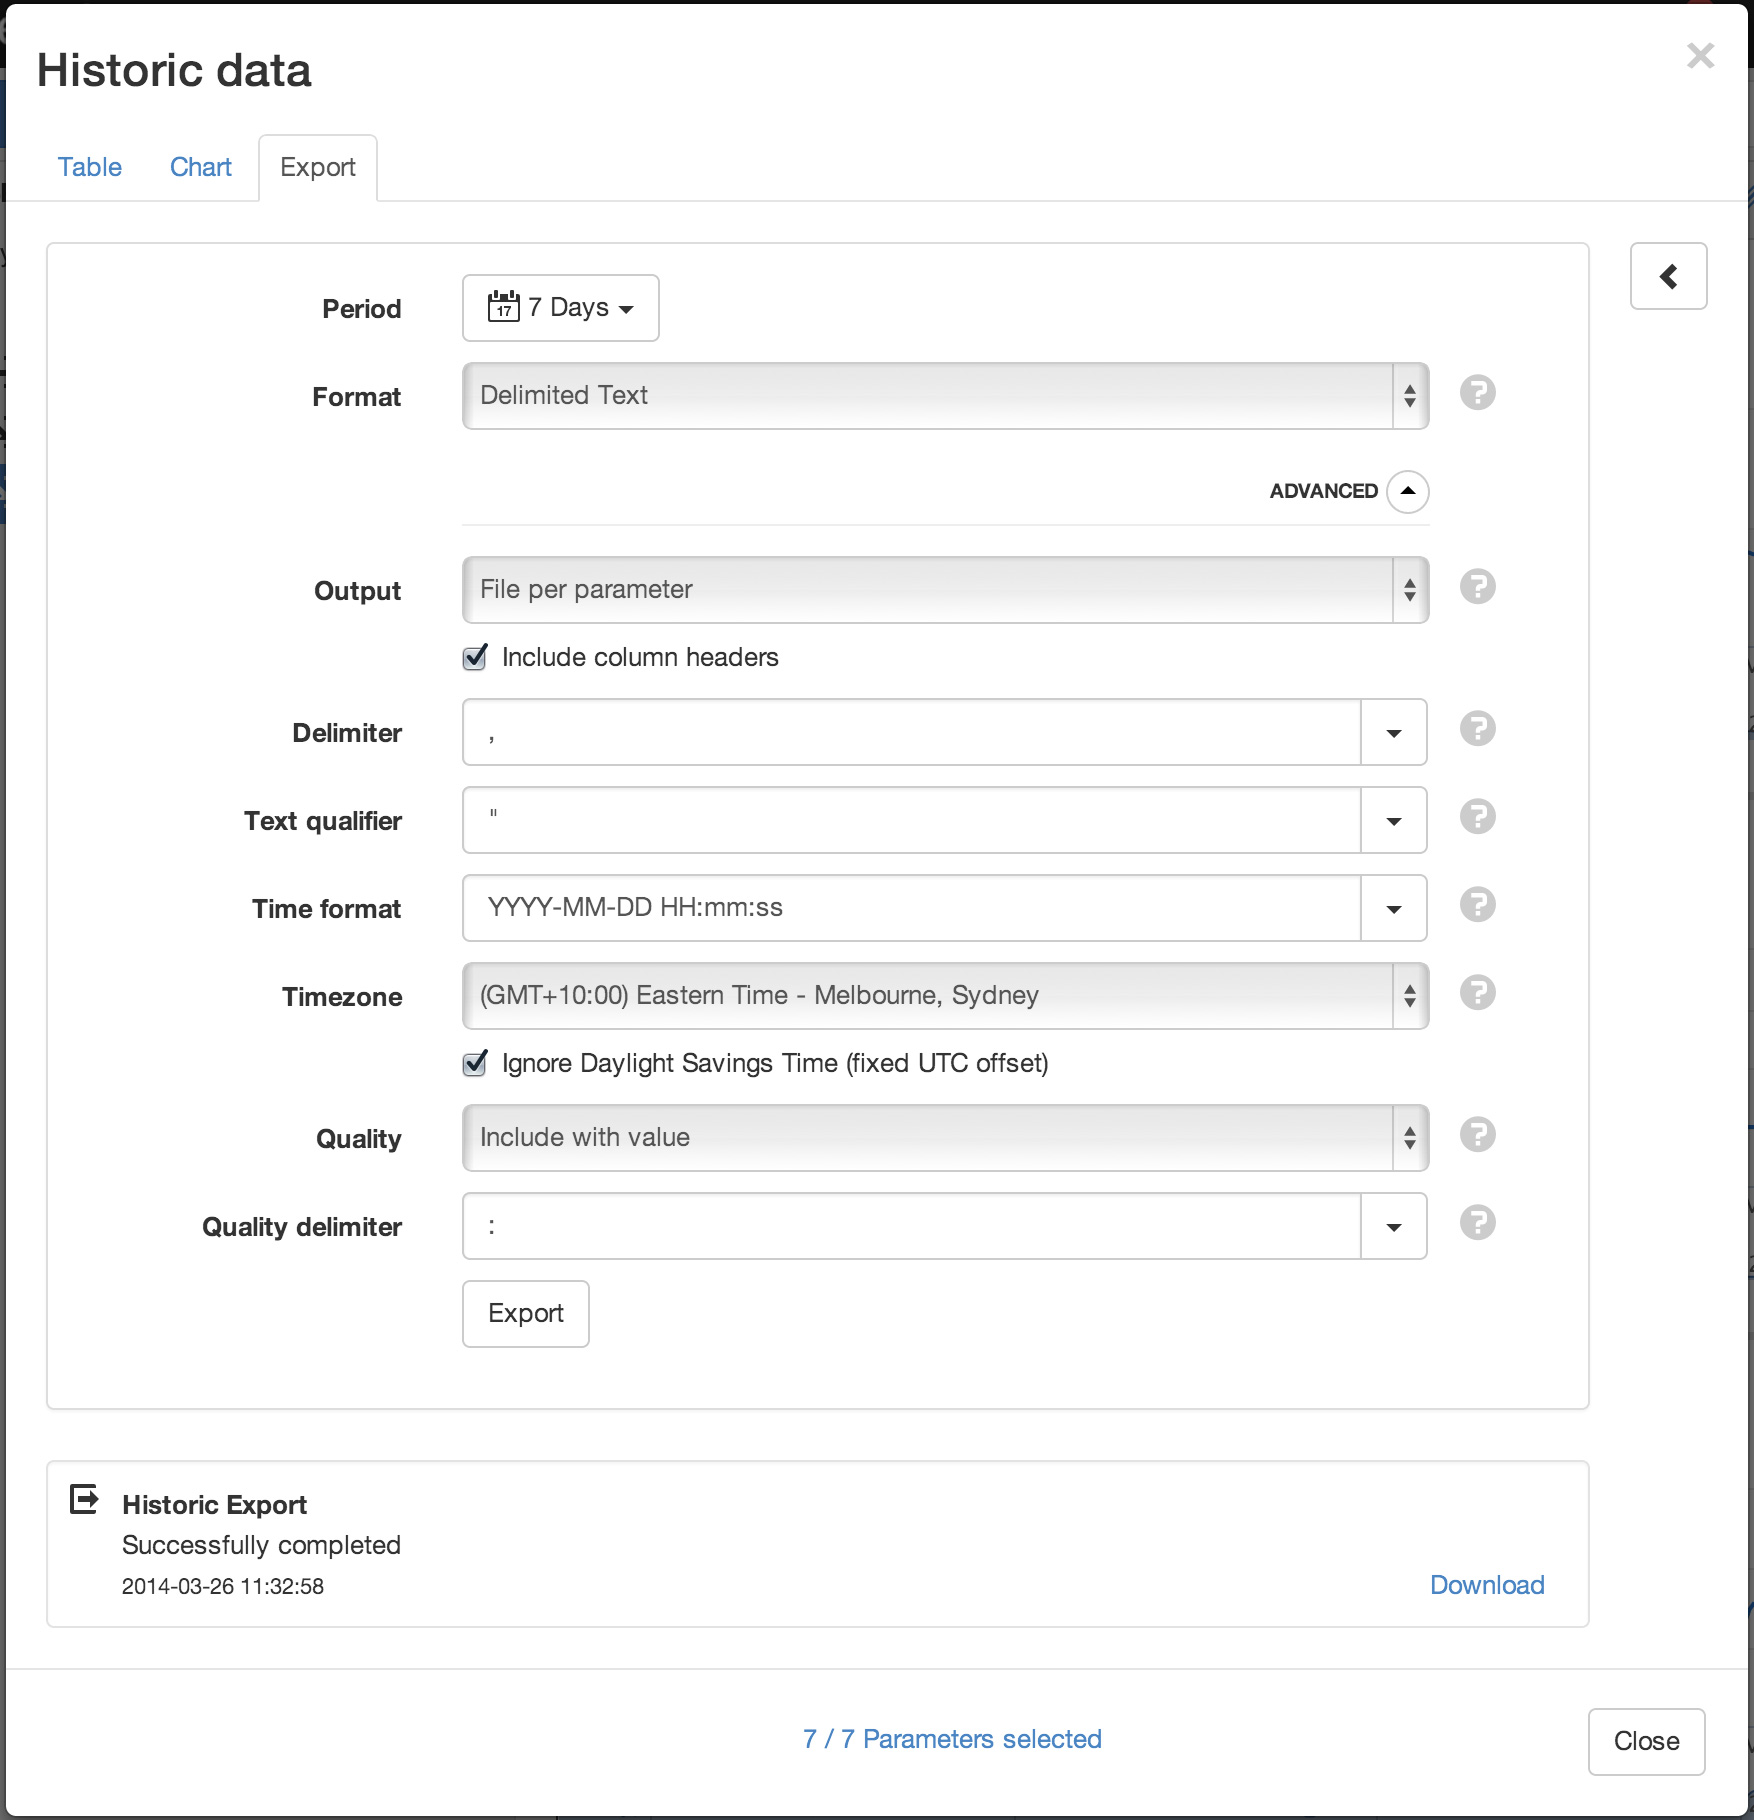
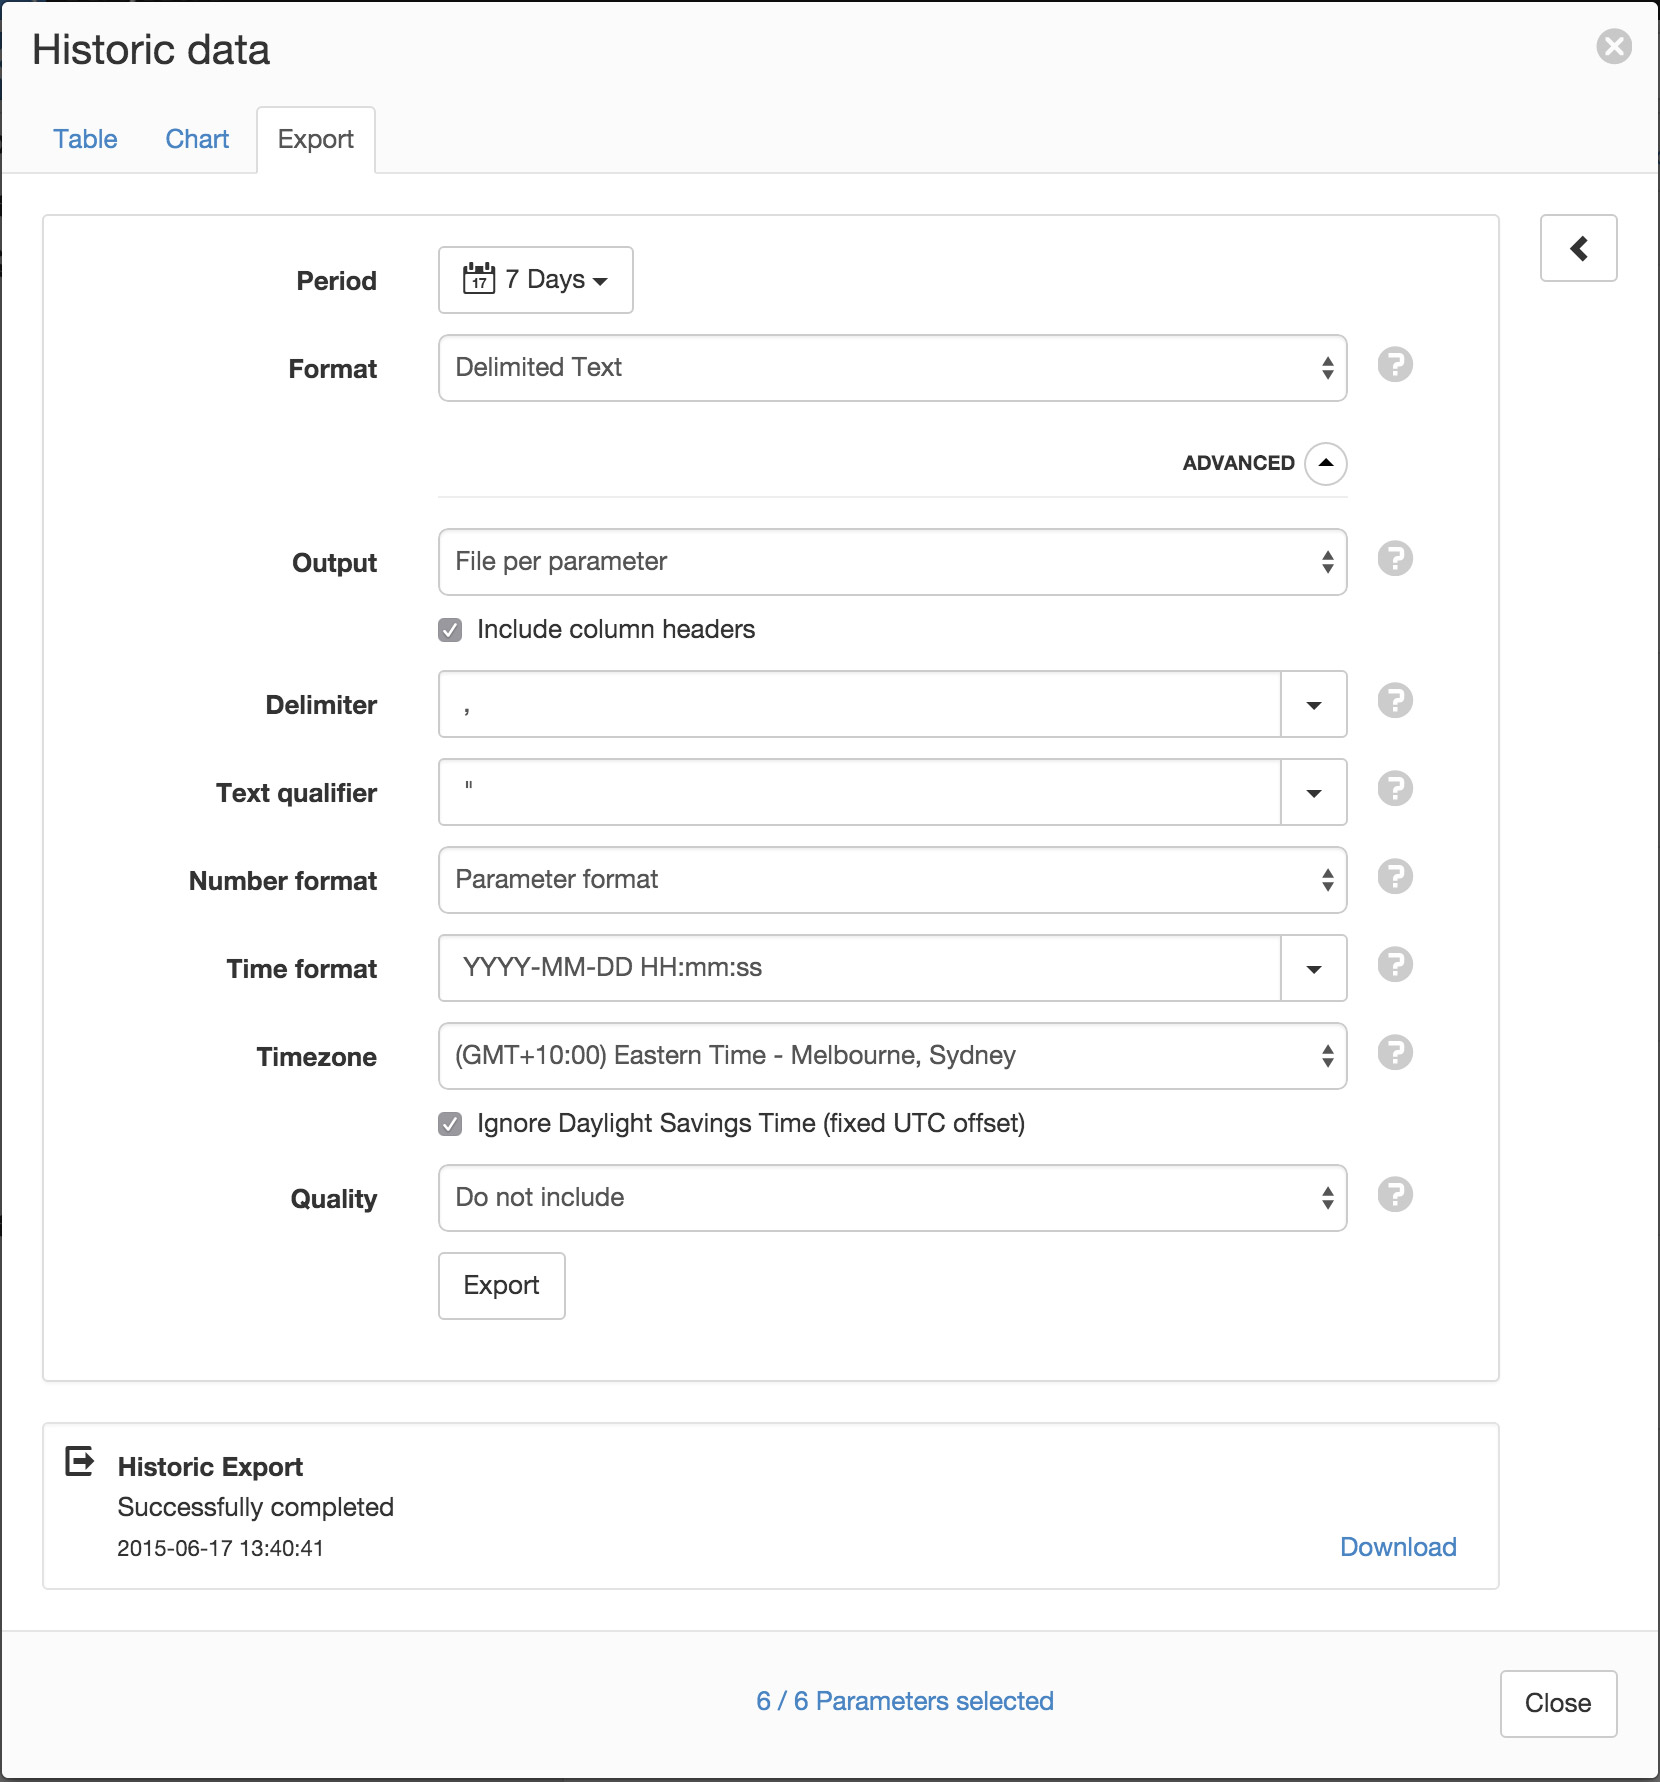
add parameter export format info to UI and API docs

diff --git a/source/api/resources/historic.rst b/source/api/resources/historic.rst
@@ -31,44 +31,50 @@ Arguments
 .. table::
     :class: table-fluid
 
-    =================   ========================    ===================================================================
-    Argument            Example                     Description
-    =================   ========================    ===================================================================
-    **format**          JSON                        *Optional - Default is JSON*. 
-                                                    Data format to return: *[JSON, CSV]*
+    ====================    ========================    ===================================================================
+    Argument                Example                     Description
+    ====================    ========================    ===================================================================
+    **format**              JSON                        *Optional - Default is JSON*. 
+                                                        Data format to return: *[JSON, CSV]*
 
-    **startTime**       2014-08-16T02:00:00Z        *Required*. [#f1]_
-                                                    :ref:`ISO8601<time-format-iso8601>` timestamp
+    **startTime**           2014-08-16T02:00:00Z        *Required*. [#f1]_
+                                                        :ref:`ISO8601<time-format-iso8601>` timestamp
 
-    **endTime**         2014-08-16T02:20:43Z        *Required*. [#f1]_
-                                                    :ref:`ISO8601<time-format-iso8601>` timestamp
+    **endTime**             2014-08-16T02:20:43Z        *Required*. [#f1]_
+                                                        :ref:`ISO8601<time-format-iso8601>` timestamp
 
-    **limit**           100                         *Optional*. 
-                                                    Maximum number of historic records to be returned
+    **limit**               100                         *Optional*. 
+                                                        Maximum number of historic records to be returned
 
-    **quality**         FALSE                       *Optional - Default is FALSE*. 
-                                                    Flag to include :ref:`quality <historic-quality>`
+    **quality**             FALSE                       *Optional - Default is FALSE*. 
+                                                        Flag to include :ref:`quality <historic-quality>`
 
-    **header**          TRUE                        *Optional - Default is TRUE*. 
-                                                    Flag to include header  
+    **header**              TRUE                        *Optional - Default is TRUE*. 
+                                                        Flag to include header  
 
-    **params**          541a5a129bc9b4035f906d70    *Required*. 
-                                                    Comma delimited list of parameter _id's to include in extraction.
-                                                    Individual parameter options are specified in parentheses.
+    **params**              541a5a129bc9b4035f906d70    *Required*. 
+                                                        Comma delimited list of parameter _id's to include in extraction.
+                                                        Individual parameter options are specified in parentheses.
 
-    | **renderType**    VALUE                       *Optional - Default is parameter displayType*. 
-                                                    Rendering of value: *[VALUE, STATE]*
+    | **renderType**        VALUE                       *Optional - Default is parameter displayType*. 
+                                                        Rendering of value: *[VALUE, STATE]*
 
-    | **aggregate**     AVERAGE                     *Optional - Default is NONE (raw)*. 
-                                                    Historic :ref:`aggregate <historic-aggregates>` to apply to 
-                                                    extracted data.
+    | **renderFormat**      0.000                       *Optional - Default is node format*.
+                                                        :ref:`Format <node-configuration-parameter-general>` to apply
+                                                        when renderType is VALUE. '#' must be  
+                                                        `Url Encoded <http://en.wikipedia.org/wiki/Percent-encoding>`_ 
+                                                        as '%23'.
 
-    | **baseTime**      D                           *Optional*. 
-                                                    :ref:`OPC Base Time <relative-time>` required for aggregation.
+    | **aggregate**         AVERAGE                     *Optional - Default is NONE (raw)*. 
+                                                        Historic :ref:`aggregate <historic-aggregates>` to apply to 
+                                                        extracted data.
 
-    | **interval**      3H                          *Optional*. 
-                                                    :ref:`OPC Interval <relative-time>` required for aggregation.
-    =================   ========================    ===================================================================
+    | **baseTime**          D                           *Optional*. 
+                                                        :ref:`OPC Base Time <relative-time>` required for aggregation.
+
+    | **interval**          3H                          *Optional*. 
+                                                        :ref:`OPC Interval <relative-time>` required for aggregation.
+    ====================    ========================    ===================================================================
 
 .. [#f1] startTime or endTime can be omitted when ``limit`` is specified.
 

diff --git a/source/topics/historic_data/export/index.rst b/source/topics/historic_data/export/index.rst
@@ -53,6 +53,18 @@ Delimiter
 Text qualifier
     Specify a character to use for surrounding text values.
 
+Number format
+    Specify how number parameters should format values:
+
+    *Parameter format*
+        Use the format configured in each parameter.
+
+    *Full resolution*
+        Will ouput the value with all available decimal places.
+
+    *Custom*
+        Specify a custom :ref:`format <node-configuration-parameter-general>` to be used.
+
 Time format
     Specify the output format for timestamps. Select a preset format from the drop down list or specify a custom format using :ref:`time format tokens <time-format-tokens>`.
 
@@ -65,15 +77,12 @@ Quality
     Specify how quality information should be exported:
 
     *Do not include*
-
         Quality is ignored.
 
     *Include with value*
-
         Quality code will be included in the same column as the value, separated with a Quality delimiter.
 
     *Include as separate value*
-
         Quality code will be included as a separate column in the file.
 
 Quality delimiter

diff --git a/source/api/resources/nodes.rst b/source/api/resources/nodes.rst
@@ -860,6 +860,12 @@ Arguments
     **renderType**      VALUE                       *Optional - Default is node displayType*. 
                                                     Rendering of value: *[VALUE, STATE]*
 
+    **renderFormat**    0.000                       *Optional - Default is node format*.
+                                                    :ref:`Format <node-configuration-parameter-general>` to apply
+                                                    when renderType is VALUE. '#' must be  
+                                                    `Url Encoded <http://en.wikipedia.org/wiki/Percent-encoding>`_ 
+                                                    as '%23'.
+
     **aggregate**       AVERAGE                     *Optional - Default is NONE (raw)*. 
                                                     Historic :ref:`aggregate <historic-aggregates>` to apply to 
                                                     extracted data.
